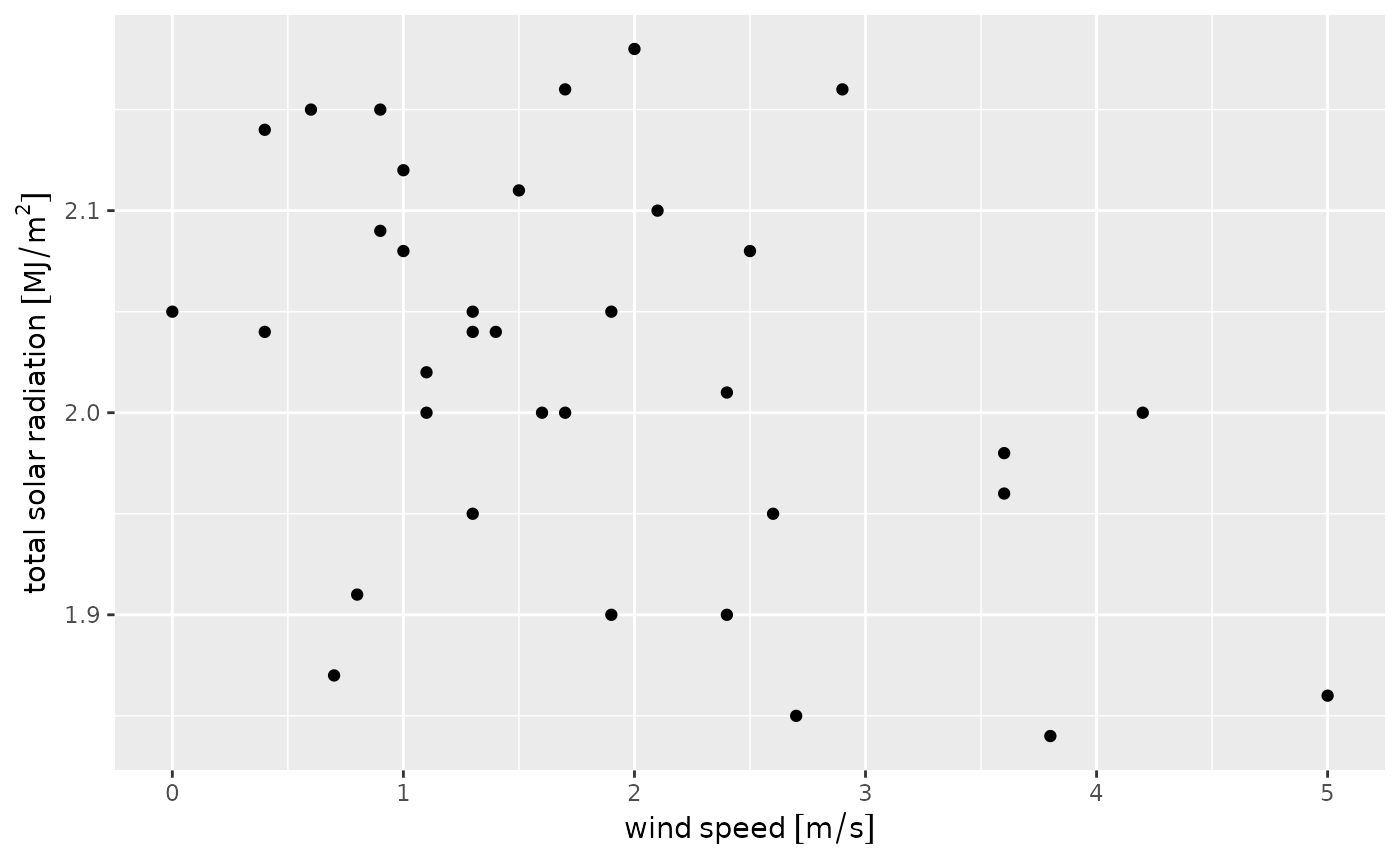
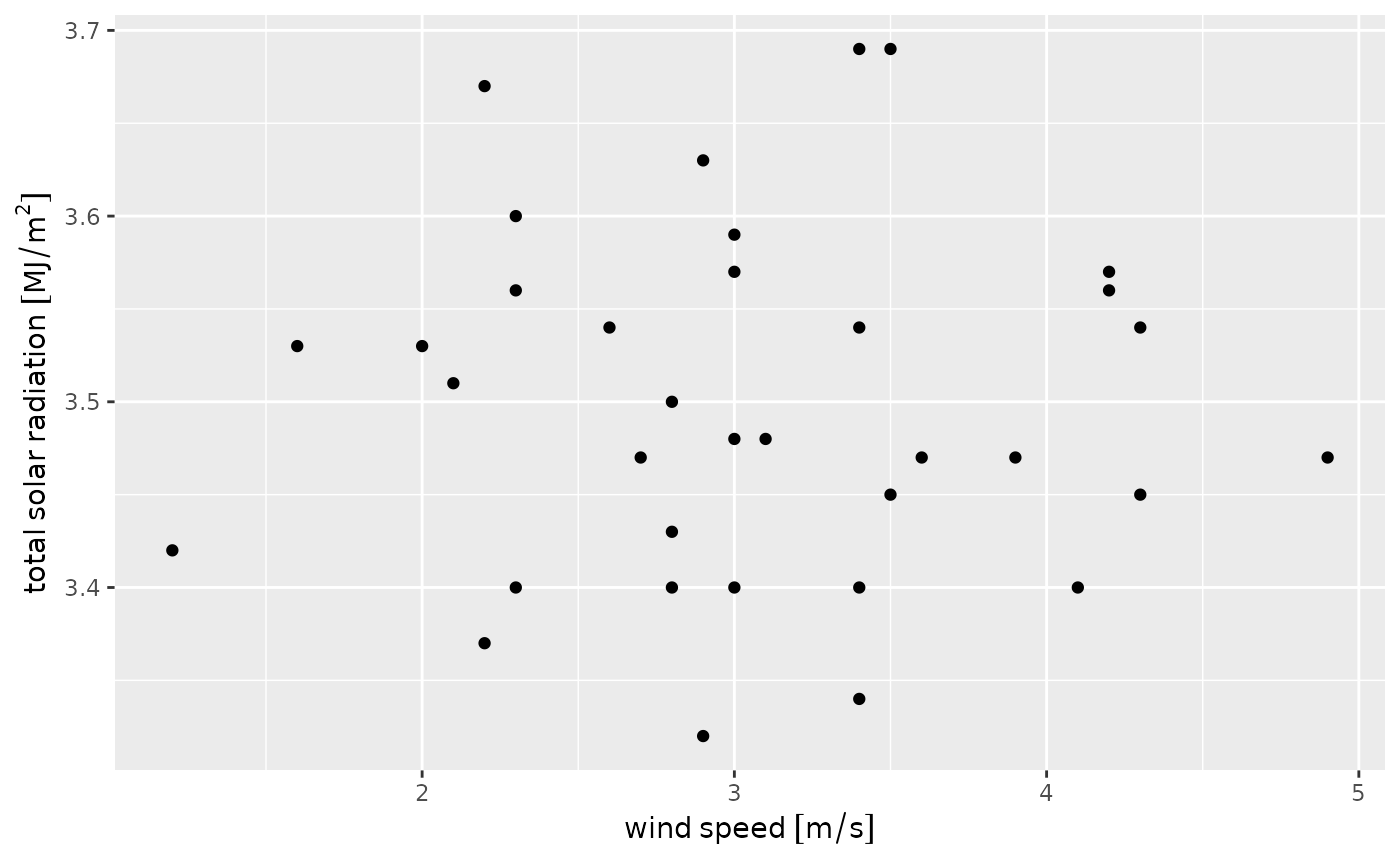
Deploying to gh-pages from @ uace-azmet/azmetr@82530cb012589f4fc7e121fc65f1631e0a003e51 🚀

diff --git a/articles/basic_use.html b/articles/basic_use.html
@@ -87,22 +87,22 @@ any arguments. <code><a href="../reference/az_daily.html">az_daily()</a></code> 
 <code><a href="../reference/az_hourly.html">az_hourly()</a></code> retrieves hourly data.</p>
 <div class="sourceCode" id="cb2"><pre class="downlit sourceCode r">
 <code class="sourceCode R"><span><span class="va">daily</span> <span class="op">&lt;-</span> <span class="fu"><a href="../reference/az_daily.html">az_daily</a></span><span class="op">(</span><span class="op">)</span></span>
-<span><span class="co">#&gt; Querying data from 2026-06-18</span></span>
-<span><span class="co">#&gt; Returning data from 2026-06-18</span></span>
+<span><span class="co">#&gt; Querying data from 2026-06-30</span></span>
+<span><span class="co">#&gt; Returning data from 2026-06-30</span></span>
 <span><span class="va">hourly</span> <span class="op">&lt;-</span> <span class="fu"><a href="../reference/az_hourly.html">az_hourly</a></span><span class="op">(</span><span class="op">)</span></span>
 <span><span class="co">#&gt; Querying most recent hour of data ...</span></span>
-<span><span class="co">#&gt; Returning data from 2026-06-19 09:00</span></span>
+<span><span class="co">#&gt; Returning data from 2026-07-01 13:00 through 2026-07-01 14:00</span></span>
 <span></span>
 <span><span class="fu"><a href="https://rdrr.io/r/utils/head.html" class="external-link">head</a></span><span class="op">(</span><span class="va">daily</span><span class="op">)</span></span>
 <span><span class="co">#&gt; <span style="color: #949494;"># A tibble: 6 × 75</span></span></span>
 <span><span class="co">#&gt;   meta_bat_volt_max meta_bat_volt_mean meta_bat_volt_min meta_needs_review</span></span>
 <span><span class="co">#&gt;               <span style="color: #949494; font-style: italic;">&lt;dbl&gt;</span>              <span style="color: #949494; font-style: italic;">&lt;dbl&gt;</span>             <span style="color: #949494; font-style: italic;">&lt;dbl&gt;</span>             <span style="color: #949494; font-style: italic;">&lt;dbl&gt;</span></span></span>
-<span><span class="co">#&gt; <span style="color: #BCBCBC;">1</span>              14.0               13.1              12.7                 0</span></span>
-<span><span class="co">#&gt; <span style="color: #BCBCBC;">2</span>              13.8               13.1              12.7                 0</span></span>
-<span><span class="co">#&gt; <span style="color: #BCBCBC;">3</span>              14.0               13.2              12.7                 0</span></span>
-<span><span class="co">#&gt; <span style="color: #BCBCBC;">4</span>              13.7               13.1              12.8                 0</span></span>
-<span><span class="co">#&gt; <span style="color: #BCBCBC;">5</span>              13.8               13.2              12.9                 0</span></span>
-<span><span class="co">#&gt; <span style="color: #BCBCBC;">6</span>              13.7               12.9              12.5                 1</span></span>
+<span><span class="co">#&gt; <span style="color: #BCBCBC;">1</span>              13.9               13.2              12.7                 0</span></span>
+<span><span class="co">#&gt; <span style="color: #BCBCBC;">2</span>              13.9               13.2              12.8                 0</span></span>
+<span><span class="co">#&gt; <span style="color: #BCBCBC;">3</span>              13.8               13.1              12.7                 0</span></span>
+<span><span class="co">#&gt; <span style="color: #BCBCBC;">4</span>              13.8               13.2              12.8                 0</span></span>
+<span><span class="co">#&gt; <span style="color: #BCBCBC;">5</span>              14.0               13.2              12.8                 0</span></span>
+<span><span class="co">#&gt; <span style="color: #BCBCBC;">6</span>              13.8               13.0              12.4                 0</span></span>
 <span><span class="co">#&gt; <span style="color: #949494;"># ℹ 71 more variables: meta_station_id &lt;chr&gt;, meta_station_name &lt;chr&gt;,</span></span></span>
 <span><span class="co">#&gt; <span style="color: #949494;">#   meta_version &lt;dbl&gt;, chill_hours_0C &lt;dbl&gt;, chill_hours_20C &lt;dbl&gt;,</span></span></span>
 <span><span class="co">#&gt; <span style="color: #949494;">#   chill_hours_32F &lt;dbl&gt;, chill_hours_45F &lt;dbl&gt;, chill_hours_68F &lt;dbl&gt;,</span></span></span>
@@ -114,12 +114,12 @@ any arguments. <code><a href="../reference/az_daily.html">az_daily()</a></code> 
 <span><span class="co">#&gt; <span style="color: #949494;"># A tibble: 6 × 42</span></span></span>
 <span><span class="co">#&gt;   meta_bat_volt meta_needs_review meta_station_id meta_station_name meta_version</span></span>
 <span><span class="co">#&gt;           <span style="color: #949494; font-style: italic;">&lt;dbl&gt;</span>             <span style="color: #949494; font-style: italic;">&lt;dbl&gt;</span> <span style="color: #949494; font-style: italic;">&lt;chr&gt;</span>           <span style="color: #949494; font-style: italic;">&lt;chr&gt;</span>                    <span style="color: #949494; font-style: italic;">&lt;dbl&gt;</span></span></span>
-<span><span class="co">#&gt; <span style="color: #BCBCBC;">1</span>          13.8                 0 az01            Tucson                       1</span></span>
-<span><span class="co">#&gt; <span style="color: #BCBCBC;">2</span>          13.7                 0 az02            Yuma Valley                  1</span></span>
-<span><span class="co">#&gt; <span style="color: #BCBCBC;">3</span>          13.6                 0 az04            Safford                      1</span></span>
-<span><span class="co">#&gt; <span style="color: #BCBCBC;">4</span>          13.4                 0 az05            Coolidge                     1</span></span>
-<span><span class="co">#&gt; <span style="color: #BCBCBC;">5</span>          13.6                 0 az06            Maricopa                     1</span></span>
-<span><span class="co">#&gt; <span style="color: #BCBCBC;">6</span>          12.9                 0 az07            Aguila                       1</span></span>
+<span><span class="co">#&gt; <span style="color: #BCBCBC;">1</span>          13.3                 0 az01            Tucson                       1</span></span>
+<span><span class="co">#&gt; <span style="color: #BCBCBC;">2</span>          13.3                 0 az02            Yuma Valley                  1</span></span>
+<span><span class="co">#&gt; <span style="color: #BCBCBC;">3</span>          13.3                 0 az04            Safford                      1</span></span>
+<span><span class="co">#&gt; <span style="color: #BCBCBC;">4</span>          13.2                 0 az05            Coolidge                     1</span></span>
+<span><span class="co">#&gt; <span style="color: #BCBCBC;">5</span>          13.4                 0 az06            Maricopa                     1</span></span>
+<span><span class="co">#&gt; <span style="color: #BCBCBC;">6</span>          13.4                 0 az07            Aguila                       1</span></span>
 <span><span class="co">#&gt; <span style="color: #949494;"># ℹ 37 more variables: date_datetime &lt;dttm&gt;, date_doy &lt;dbl&gt;, date_hour &lt;chr&gt;,</span></span></span>
 <span><span class="co">#&gt; <span style="color: #949494;">#   date_year &lt;dbl&gt;, dwpt &lt;dbl&gt;, dwptF &lt;dbl&gt;, eto_azmet &lt;dbl&gt;,</span></span></span>
 <span><span class="co">#&gt; <span style="color: #949494;">#   eto_azmet_in &lt;dbl&gt;, heatstress_cottonC &lt;dbl&gt;, heatstress_cottonF &lt;dbl&gt;,</span></span></span>
@@ -137,25 +137,25 @@ retrieve data going back further in time.</p>
 <div class="sourceCode" id="cb3"><pre class="downlit sourceCode r">
 <code class="sourceCode R"><span><span class="va">last_date</span> <span class="op">&lt;-</span> <span class="fu"><a href="https://rdrr.io/r/base/Extremes.html" class="external-link">max</a></span><span class="op">(</span><span class="va">daily</span><span class="op">$</span><span class="va">datetime</span><span class="op">)</span></span>
 <span><span class="va">last_date</span></span>
-<span><span class="co">#&gt; [1] "2026-06-18"</span></span>
+<span><span class="co">#&gt; [1] "2026-06-30"</span></span>
 <span><span class="va">last_week</span> <span class="op">&lt;-</span> <span class="va">last_date</span> <span class="op">-</span> <span class="fu">lubridate</span><span class="fu">::</span><span class="fu"><a href="https://lubridate.tidyverse.org/reference/period.html" class="external-link">weeks</a></span><span class="op">(</span><span class="fl">1</span><span class="op">)</span></span>
 <span><span class="va">wk</span> <span class="op">&lt;-</span> <span class="fu"><a href="../reference/az_daily.html">az_daily</a></span><span class="op">(</span>start_date <span class="op">=</span> <span class="va">last_week</span><span class="op">)</span></span>
-<span><span class="co">#&gt; Querying data from 2026-06-11 through 2026-06-18</span></span>
-<span><span class="co">#&gt; Returning data from 2026-06-11 through 2026-06-18</span></span>
+<span><span class="co">#&gt; Querying data from 2026-06-23 through 2026-06-30</span></span>
+<span><span class="co">#&gt; Returning data from 2026-06-23 through 2026-06-30</span></span>
 <span></span>
 <span><span class="fu"><a href="https://rdrr.io/r/base/range.html" class="external-link">range</a></span><span class="op">(</span><span class="va">wk</span><span class="op">$</span><span class="va">datetime</span><span class="op">)</span></span>
-<span><span class="co">#&gt; [1] "2026-06-11" "2026-06-18"</span></span></code></pre></div>
+<span><span class="co">#&gt; [1] "2026-06-23" "2026-06-30"</span></span></code></pre></div>
 <div class="sourceCode" id="cb4"><pre class="downlit sourceCode r">
 <code class="sourceCode R"><span><span class="va">last_datetime</span> <span class="op">&lt;-</span> <span class="fu"><a href="https://rdrr.io/r/base/Extremes.html" class="external-link">max</a></span><span class="op">(</span><span class="va">hourly</span><span class="op">$</span><span class="va">date_datetime</span><span class="op">)</span></span>
 <span><span class="va">last_datetime</span></span>
-<span><span class="co">#&gt; [1] "2026-06-19 09:00:00 MST"</span></span>
+<span><span class="co">#&gt; [1] "2026-07-01 14:00:00 MST"</span></span>
 <span><span class="va">last_48h</span> <span class="op">&lt;-</span> <span class="va">last_datetime</span> <span class="op">-</span> <span class="fu"><a href="https://lubridate.tidyverse.org/reference/period.html" class="external-link">hours</a></span><span class="op">(</span><span class="fl">48</span><span class="op">)</span></span>
 <span><span class="va">hr</span> <span class="op">&lt;-</span> <span class="fu"><a href="../reference/az_hourly.html">az_hourly</a></span><span class="op">(</span>start_date_time <span class="op">=</span> <span class="va">last_48h</span><span class="op">)</span></span>
-<span><span class="co">#&gt; Querying data from 2026-06-17 09:00 through 2026-06-19 09:00</span></span>
-<span><span class="co">#&gt; Returning data from 2026-06-17 09:00 through 2026-06-19 09:00</span></span>
+<span><span class="co">#&gt; Querying data from 2026-06-29 14:00 through 2026-07-01 14:00</span></span>
+<span><span class="co">#&gt; Returning data from 2026-06-29 14:00 through 2026-07-01 14:00</span></span>
 <span></span>
 <span><span class="fu"><a href="https://rdrr.io/r/base/range.html" class="external-link">range</a></span><span class="op">(</span><span class="va">hr</span><span class="op">$</span><span class="va">date_datetime</span><span class="op">)</span></span>
-<span><span class="co">#&gt; [1] "2026-06-17 09:00:00 MST" "2026-06-19 09:00:00 MST"</span></span></code></pre></div>
+<span><span class="co">#&gt; [1] "2026-06-29 14:00:00 MST" "2026-07-01 14:00:00 MST"</span></span></code></pre></div>
 <p>To specify an end date, use <code>end_date</code> or
 <code>end_date_time</code>. You must also supply a start date if you
 supply an end date.</p>
@@ -224,7 +224,7 @@ queries the web API once and results in an identical dataset.</p>
 <span><span class="co">#&gt; Querying data from 2022-01-01 through 2022-01-15</span></span>
 <span><span class="co">#&gt; Returning data from 2022-01-01 through 2022-01-15</span></span>
 <span><span class="co">#&gt;    user  system elapsed </span></span>
-<span><span class="co">#&gt;   0.099   0.002   0.464</span></span>
+<span><span class="co">#&gt;   0.101   0.003   0.422</span></span>
 <span><span class="fu"><a href="https://rdrr.io/r/base/system.time.html" class="external-link">system.time</a></span><span class="op">(</span></span>
 <span>  <span class="va">sub_wk2</span> <span class="op">&lt;-</span> <span class="fu"><a href="https://rdrr.io/r/base/subset.html" class="external-link">subset</a></span><span class="op">(</span></span>
 <span>    <span class="fu"><a href="../reference/az_daily.html">az_daily</a></span><span class="op">(</span>start_date <span class="op">=</span> <span class="st">"2022-01-01"</span>, end_date <span class="op">=</span> <span class="st">"2022-01-15"</span><span class="op">)</span>,</span>
@@ -234,7 +234,7 @@ queries the web API once and results in an identical dataset.</p>
 <span><span class="co">#&gt; Querying data from 2022-01-01 through 2022-01-15</span></span>
 <span><span class="co">#&gt; Returning data from 2022-01-01 through 2022-01-15</span></span>
 <span><span class="co">#&gt;    user  system elapsed </span></span>
-<span><span class="co">#&gt;   0.467   0.011   0.929</span></span>
+<span><span class="co">#&gt;   0.398   0.062   0.935</span></span>
 <span><span class="fu"><a href="https://rdrr.io/r/base/all.html" class="external-link">all</a></span><span class="op">(</span><span class="va">sub_wk2</span> <span class="op">==</span> <span class="va">sub_wk</span><span class="op">)</span></span>
 <span><span class="co">#&gt; [1] NA</span></span></code></pre></div>
 </div>

diff --git a/articles/metadata.html b/articles/metadata.html
@@ -95,7 +95,7 @@
 <span>  <span class="fu"><a href="../reference/az_hourly.html">az_hourly</a></span><span class="op">(</span><span class="op">)</span> <span class="op"><a href="../reference/pipe.html">%&gt;%</a></span> </span>
 <span>  <span class="fu"><a href="../reference/az_add_units.html">az_add_units</a></span><span class="op">(</span><span class="op">)</span> </span>
 <span><span class="co">#&gt; Querying most recent hour of data ...</span></span>
-<span><span class="co">#&gt; Returning data from 2026-06-19 09:00</span></span>
+<span><span class="co">#&gt; Returning data from 2026-07-01 13:00 through 2026-07-01 14:00</span></span>
 <span></span>
 <span><span class="va">hourly</span> <span class="op"><a href="../reference/pipe.html">%&gt;%</a></span> </span>
 <span>  <span class="fu"><a href="https://dplyr.tidyverse.org/reference/select.html" class="external-link">select</a></span><span class="op">(</span><span class="op">-</span><span class="fu"><a href="https://tidyselect.r-lib.org/reference/starts_with.html" class="external-link">starts_with</a></span><span class="op">(</span><span class="st">"meta_"</span><span class="op">)</span>, <span class="op">-</span><span class="fu"><a href="https://tidyselect.r-lib.org/reference/starts_with.html" class="external-link">starts_with</a></span><span class="op">(</span><span class="st">"date_"</span><span class="op">)</span><span class="op">)</span> <span class="op"><a href="../reference/pipe.html">%&gt;%</a></span> </span>
@@ -103,12 +103,12 @@
 <span><span class="co">#&gt; <span style="color: #949494;"># A tibble: 6 × 33</span></span></span>
 <span><span class="co">#&gt;   dwpt  dwptF eto_azmet eto_azmet_in heatstress_cottonC heatstress_cottonF</span></span>
 <span><span class="co">#&gt;   <span style="color: #949494;">[°C]</span> <span style="color: #949494;">[degF]</span>      <span style="color: #949494;">[mm]</span>         <span style="color: #949494;">[in]</span>               <span style="color: #949494;">[°C]</span>             <span style="color: #949494;">[degF]</span></span></span>
-<span><span class="co">#&gt; <span style="color: #BCBCBC;">1</span>  5.3   107.       0.5         0.02               26.3               175.</span></span>
-<span><span class="co">#&gt; <span style="color: #BCBCBC;">2</span> 10.7   124.       0.4         0.02               26.9               177.</span></span>
-<span><span class="co">#&gt; <span style="color: #BCBCBC;">3</span>  4.8   105.       0.5         0.02               25.7               173.</span></span>
-<span><span class="co">#&gt; <span style="color: #BCBCBC;">4</span>  3.2   100.       0.6         0.02               26.2               175.</span></span>
-<span><span class="co">#&gt; <span style="color: #BCBCBC;">5</span>  3.9   102.       0.5         0.02               26.7               176.</span></span>
-<span><span class="co">#&gt; <span style="color: #BCBCBC;">6</span>  3.2   100.       0.5         0.02               25.5               172.</span></span>
+<span><span class="co">#&gt; <span style="color: #BCBCBC;">1</span> -<span style="color: #BB0000;">5.7</span>   71.2         1         0.04               28.8               183.</span></span>
+<span><span class="co">#&gt; <span style="color: #BCBCBC;">2</span>  6.1  109.          1         0.04               29.1               184.</span></span>
+<span><span class="co">#&gt; <span style="color: #BCBCBC;">3</span>  2.5   97.5         1         0.04               29.1               184.</span></span>
+<span><span class="co">#&gt; <span style="color: #BCBCBC;">4</span> -<span style="color: #BB0000;">1.7</span>   84.2         1         0.04               28.5               182.</span></span>
+<span><span class="co">#&gt; <span style="color: #BCBCBC;">5</span> -<span style="color: #BB0000;">4.7</span>   74.3         1         0.04               28.3               181.</span></span>
+<span><span class="co">#&gt; <span style="color: #BCBCBC;">6</span> -<span style="color: #BB0000;">0.2</span>   88.9         1         0.04               27.1               177.</span></span>
 <span><span class="co">#&gt; <span style="color: #949494;"># ℹ 27 more variables: precip_total [mm], precip_total_in [in],</span></span></span>
 <span><span class="co">#&gt; <span style="color: #949494;">#   relative_humidity [%], sol_rad_total [MJ/m^2], sol_rad_total_ly [langleys],</span></span></span>
 <span><span class="co">#&gt; <span style="color: #949494;">#   temp_airC [°C], temp_airF [degF], temp_soil_10cmC [°C],</span></span></span>
@@ -138,16 +138,16 @@ package.</p>
 <span><span class="co">#&gt; <span style="color: #949494;"># A tibble: 35 × 3</span></span></span>
 <span><span class="co">#&gt;    wind_spd_kph sol_rad_total temp_airK</span></span>
 <span><span class="co">#&gt;          <span style="color: #949494;">[km/h]</span>     <span style="color: #949494;">[W*h/m^2]</span>       <span style="color: #949494;">[K]</span></span></span>
-<span><span class="co">#&gt; <span style="color: #BCBCBC;"> 1</span>         5.04          567.      304.</span></span>
-<span><span class="co">#&gt; <span style="color: #BCBCBC;"> 2</span>         2.88          531.      304.</span></span>
-<span><span class="co">#&gt; <span style="color: #BCBCBC;"> 3</span>         6.12          600       303.</span></span>
-<span><span class="co">#&gt; <span style="color: #BCBCBC;"> 4</span>         7.2           606.      304.</span></span>
-<span><span class="co">#&gt; <span style="color: #BCBCBC;"> 5</span>         8.64          558.      305.</span></span>
-<span><span class="co">#&gt; <span style="color: #BCBCBC;"> 6</span>         7.56          583.      303.</span></span>
-<span><span class="co">#&gt; <span style="color: #BCBCBC;"> 7</span>        13.0           550       303.</span></span>
-<span><span class="co">#&gt; <span style="color: #BCBCBC;"> 8</span>         2.16          597.      301.</span></span>
-<span><span class="co">#&gt; <span style="color: #BCBCBC;"> 9</span>         3.96          556.      304.</span></span>
-<span><span class="co">#&gt; <span style="color: #BCBCBC;">10</span>         6.84          528.      304.</span></span>
+<span><span class="co">#&gt; <span style="color: #BCBCBC;"> 1</span>        10.1           972.      310.</span></span>
+<span><span class="co">#&gt; <span style="color: #BCBCBC;"> 2</span>        10.8           997.      309.</span></span>
+<span><span class="co">#&gt; <span style="color: #BCBCBC;"> 3</span>         9.72          964.      309.</span></span>
+<span><span class="co">#&gt; <span style="color: #BCBCBC;"> 4</span>         7.92         <span style="text-decoration: underline;">1</span>019.      309.</span></span>
+<span><span class="co">#&gt; <span style="color: #BCBCBC;"> 5</span>         8.28          989.      309.</span></span>
+<span><span class="co">#&gt; <span style="color: #BCBCBC;"> 6</span>        12.6           958.      306.</span></span>
+<span><span class="co">#&gt; <span style="color: #BCBCBC;"> 7</span>        10.4           922.      306.</span></span>
+<span><span class="co">#&gt; <span style="color: #BCBCBC;"> 8</span>        15.1           989.      306.</span></span>
+<span><span class="co">#&gt; <span style="color: #BCBCBC;"> 9</span>         7.56          975       307.</span></span>
+<span><span class="co">#&gt; <span style="color: #BCBCBC;">10</span>        10.8           944.      308.</span></span>
 <span><span class="co">#&gt; <span style="color: #949494;"># ℹ 25 more rows</span></span></span></code></pre></div>
 <p>Second, it won’t allow you to do math where the units aren’t
 compatible.</p>
@@ -166,7 +166,7 @@ constants.</p>
 <span></span>
 <span><span class="co">## Must use:</span></span>
 <span><span class="va">hourly</span><span class="op">$</span><span class="va">wind_spd_mps</span><span class="op">[</span><span class="fl">1</span><span class="op">]</span> <span class="op">+</span> <span class="fu"><a href="https://r-quantities.github.io/units/reference/units.html" class="external-link">set_units</a></span><span class="op">(</span><span class="fl">10</span>, <span class="st">"m/s"</span><span class="op">)</span></span>
-<span><span class="co">#&gt; 11.4 [m/s]</span></span></code></pre></div>
+<span><span class="co">#&gt; 12.8 [m/s]</span></span></code></pre></div>
 </div>
 <div class="section level2">
 <h2 id="plotting-with-units">Plotting with units<a class="anchor" aria-label="anchor" href="#plotting-with-units"></a>

diff --git a/authors.html b/authors.html
@@ -68,13 +68,13 @@
 }</pre>
       <p>Arizona Meteorological Network (2026).
 “Arizona Meteorological Network (AZMet) Data.”
-Accessed 2026-06-19, <a href="https://azmet.arizona.edu" class="external-link">https://azmet.arizona.edu</a>.
+Accessed 2026-07-01, <a href="https://azmet.arizona.edu" class="external-link">https://azmet.arizona.edu</a>.
 </p>
       <pre>@Misc{,
   title = {Arizona Meteorological Network (AZMet) Data},
   author = {{Arizona Meteorological Network}},
   year = {2026},
-  note = {Accessed 2026-06-19},
+  note = {Accessed 2026-07-01},
   url = {https://azmet.arizona.edu},
 }</pre>
     </div>

diff --git a/articles/basic_use.md b/articles/basic_use.md
@@ -27,22 +27,22 @@ retrieves hourly data.
 ``` r
 
 daily <- az_daily()
-#> Querying data from 2026-06-18
-#> Returning data from 2026-06-18
+#> Querying data from 2026-06-30
+#> Returning data from 2026-06-30
 hourly <- az_hourly()
 #> Querying most recent hour of data ...
-#> Returning data from 2026-06-19 09:00
+#> Returning data from 2026-07-01 13:00 through 2026-07-01 14:00
 
 head(daily)
 #> # A tibble: 6 × 75
 #>   meta_bat_volt_max meta_bat_volt_mean meta_bat_volt_min meta_needs_review
 #>               <dbl>              <dbl>             <dbl>             <dbl>
-#> 1              14.0               13.1              12.7                 0
-#> 2              13.8               13.1              12.7                 0
-#> 3              14.0               13.2              12.7                 0
-#> 4              13.7               13.1              12.8                 0
-#> 5              13.8               13.2              12.9                 0
-#> 6              13.7               12.9              12.5                 1
+#> 1              13.9               13.2              12.7                 0
+#> 2              13.9               13.2              12.8                 0
+#> 3              13.8               13.1              12.7                 0
+#> 4              13.8               13.2              12.8                 0
+#> 5              14.0               13.2              12.8                 0
+#> 6              13.8               13.0              12.4                 0
 #> # ℹ 71 more variables: meta_station_id <chr>, meta_station_name <chr>,
 #> #   meta_version <dbl>, chill_hours_0C <dbl>, chill_hours_20C <dbl>,
 #> #   chill_hours_32F <dbl>, chill_hours_45F <dbl>, chill_hours_68F <dbl>,
@@ -54,12 +54,12 @@ head(hourly)
 #> # A tibble: 6 × 42
 #>   meta_bat_volt meta_needs_review meta_station_id meta_station_name meta_version
 #>           <dbl>             <dbl> <chr>           <chr>                    <dbl>
-#> 1          13.8                 0 az01            Tucson                       1
-#> 2          13.7                 0 az02            Yuma Valley                  1
-#> 3          13.6                 0 az04            Safford                      1
-#> 4          13.4                 0 az05            Coolidge                     1
-#> 5          13.6                 0 az06            Maricopa                     1
-#> 6          12.9                 0 az07            Aguila                       1
+#> 1          13.3                 0 az01            Tucson                       1
+#> 2          13.3                 0 az02            Yuma Valley                  1
+#> 3          13.3                 0 az04            Safford                      1
+#> 4          13.2                 0 az05            Coolidge                     1
+#> 5          13.4                 0 az06            Maricopa                     1
+#> 6          13.4                 0 az07            Aguila                       1
 #> # ℹ 37 more variables: date_datetime <dttm>, date_doy <dbl>, date_hour <chr>,
 #> #   date_year <dbl>, dwpt <dbl>, dwptF <dbl>, eto_azmet <dbl>,
 #> #   eto_azmet_in <dbl>, heatstress_cottonC <dbl>, heatstress_cottonF <dbl>,
@@ -81,28 +81,28 @@ you can retrieve data going back further in time.
 
 last_date <- max(daily$datetime)
 last_date
-#> [1] "2026-06-18"
+#> [1] "2026-06-30"
 last_week <- last_date - lubridate::weeks(1)
 wk <- az_daily(start_date = last_week)
-#> Querying data from 2026-06-11 through 2026-06-18
-#> Returning data from 2026-06-11 through 2026-06-18
+#> Querying data from 2026-06-23 through 2026-06-30
+#> Returning data from 2026-06-23 through 2026-06-30
 
 range(wk$datetime)
-#> [1] "2026-06-11" "2026-06-18"
+#> [1] "2026-06-23" "2026-06-30"
 ```
 
 ``` r
 
 last_datetime <- max(hourly$date_datetime)
 last_datetime
-#> [1] "2026-06-19 09:00:00 MST"
+#> [1] "2026-07-01 14:00:00 MST"
 last_48h <- last_datetime - hours(48)
 hr <- az_hourly(start_date_time = last_48h)
-#> Querying data from 2026-06-17 09:00 through 2026-06-19 09:00
-#> Returning data from 2026-06-17 09:00 through 2026-06-19 09:00
+#> Querying data from 2026-06-29 14:00 through 2026-07-01 14:00
+#> Returning data from 2026-06-29 14:00 through 2026-07-01 14:00
 
 range(hr$date_datetime)
-#> [1] "2026-06-17 09:00:00 MST" "2026-06-19 09:00:00 MST"
+#> [1] "2026-06-29 14:00:00 MST" "2026-07-01 14:00:00 MST"
 ```
 
 To specify an end date, use `end_date` or `end_date_time`. You must also
@@ -186,7 +186,7 @@ system.time(
 #> Querying data from 2022-01-01 through 2022-01-15
 #> Returning data from 2022-01-01 through 2022-01-15
 #>    user  system elapsed 
-#>   0.099   0.002   0.464
+#>   0.101   0.003   0.422
 system.time(
   sub_wk2 <- subset(
     az_daily(start_date = "2022-01-01", end_date = "2022-01-15"),
@@ -196,7 +196,7 @@ system.time(
 #> Querying data from 2022-01-01 through 2022-01-15
 #> Returning data from 2022-01-01 through 2022-01-15
 #>    user  system elapsed 
-#>   0.467   0.011   0.929
+#>   0.398   0.062   0.935
 all(sub_wk2 == sub_wk)
 #> [1] NA
 ```

diff --git a/articles/metadata.md b/articles/metadata.md
@@ -32,7 +32,7 @@ hourly <-
   az_hourly() %>% 
   az_add_units() 
 #> Querying most recent hour of data ...
-#> Returning data from 2026-06-19 09:00
+#> Returning data from 2026-07-01 13:00 through 2026-07-01 14:00
 
 hourly %>% 
   select(-starts_with("meta_"), -starts_with("date_")) %>% 
@@ -40,12 +40,12 @@ hourly %>%
 #> # A tibble: 6 × 33
 #>   dwpt  dwptF eto_azmet eto_azmet_in heatstress_cottonC heatstress_cottonF
 #>   [°C] [degF]      [mm]         [in]               [°C]             [degF]
-#> 1  5.3   107.       0.5         0.02               26.3               175.
-#> 2 10.7   124.       0.4         0.02               26.9               177.
-#> 3  4.8   105.       0.5         0.02               25.7               173.
-#> 4  3.2   100.       0.6         0.02               26.2               175.
-#> 5  3.9   102.       0.5         0.02               26.7               176.
-#> 6  3.2   100.       0.5         0.02               25.5               172.
+#> 1 -5.7   71.2         1         0.04               28.8               183.
+#> 2  6.1  109.          1         0.04               29.1               184.
+#> 3  2.5   97.5         1         0.04               29.1               184.
+#> 4 -1.7   84.2         1         0.04               28.5               182.
+#> 5 -4.7   74.3         1         0.04               28.3               181.
+#> 6 -0.2   88.9         1         0.04               27.1               177.
 #> # ℹ 27 more variables: precip_total [mm], precip_total_in [in],
 #> #   relative_humidity [%], sol_rad_total [MJ/m^2], sol_rad_total_ly [langleys],
 #> #   temp_airC [°C], temp_airF [degF], temp_soil_10cmC [°C],
@@ -79,16 +79,16 @@ hourly %>%
 #> # A tibble: 35 × 3
 #>    wind_spd_kph sol_rad_total temp_airK
 #>          [km/h]     [W*h/m^2]       [K]
-#>  1         5.04          567.      304.
-#>  2         2.88          531.      304.
-#>  3         6.12          600       303.
-#>  4         7.2           606.      304.
-#>  5         8.64          558.      305.
-#>  6         7.56          583.      303.
-#>  7        13.0           550       303.
-#>  8         2.16          597.      301.
-#>  9         3.96          556.      304.
-#> 10         6.84          528.      304.
+#>  1        10.1           972.      310.
+#>  2        10.8           997.      309.
+#>  3         9.72          964.      309.
+#>  4         7.92         1019.      309.
+#>  5         8.28          989.      309.
+#>  6        12.6           958.      306.
+#>  7        10.4           922.      306.
+#>  8        15.1           989.      306.
+#>  9         7.56          975       307.
+#> 10        10.8           944.      308.
 #> # ℹ 25 more rows
 ```
 
@@ -114,7 +114,7 @@ constants.
 
 ## Must use:
 hourly$wind_spd_mps[1] + set_units(10, "m/s")
-#> 11.4 [m/s]
+#> 12.8 [m/s]
 ```
 
 ## Plotting with units

diff --git a/authors.md b/authors.md
@@ -28,12 +28,12 @@ AZMet API.”
     }
 
 Arizona Meteorological Network (2026). “Arizona Meteorological Network
-(AZMet) Data.” Accessed 2026-06-19, <https://azmet.arizona.edu>.
+(AZMet) Data.” Accessed 2026-07-01, <https://azmet.arizona.edu>.
 
     @Misc{,
       title = {Arizona Meteorological Network (AZMet) Data},
       author = {{Arizona Meteorological Network}},
       year = {2026},
-      note = {Accessed 2026-06-19},
+      note = {Accessed 2026-07-01},
       url = {https://azmet.arizona.edu},
     }